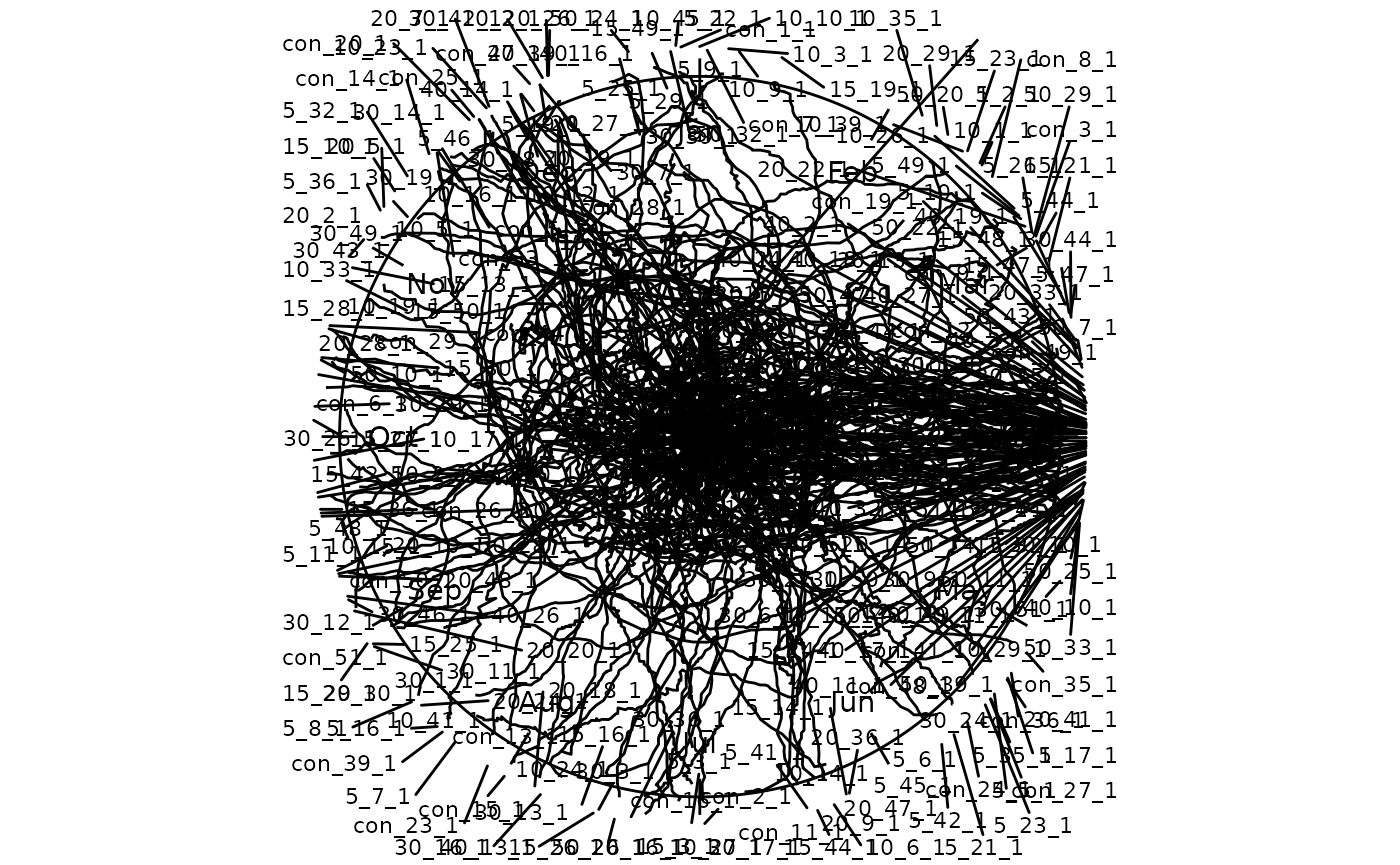
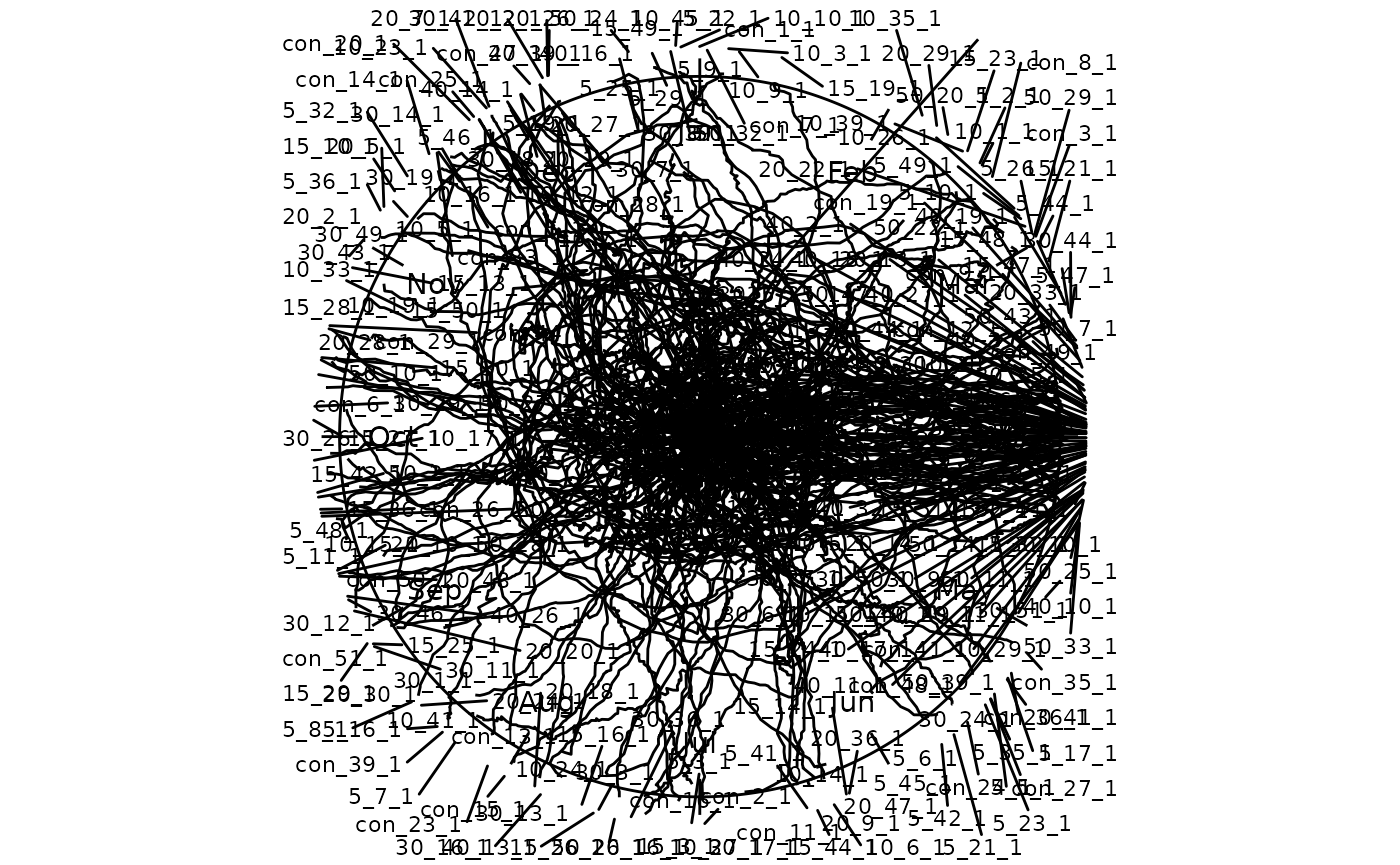
Deploying to gh-pages from @ JohnKirwan/radiatR@d9d15f83c22ddb8d662526b81093b242af88a316 🚀

diff --git a/news/index.html b/news/index.html
@@ -7,7 +7,7 @@
 
     <a class="navbar-brand me-2" href="../index.html">radiatR</a>
 
-    <small class="nav-text text-muted me-auto" data-bs-toggle="tooltip" data-bs-placement="bottom" title="">0.4.0</small>
+    <small class="nav-text text-muted me-auto" data-bs-toggle="tooltip" data-bs-placement="bottom" title="">0.4.1</small>
 
 
     <button class="navbar-toggler" type="button" data-bs-toggle="collapse" data-bs-target="#navbar" aria-controls="navbar" aria-expanded="false" aria-label="Toggle navigation">
@@ -41,24 +41,24 @@
     </div>
 
     <div class="section level2">
-<h2 class="pkg-version" data-toc-text="development version" id="radiatr-development-version">radiatR (development version)<a class="anchor" aria-label="anchor" href="#radiatr-development-version"></a></h2>
+<h2 class="pkg-version" data-toc-text="0.4.1" id="radiatr-041">radiatR 0.4.1<a class="anchor" aria-label="anchor" href="#radiatr-041"></a></h2>
 <div class="section level3">
-<h3 id="breaking-changes-development-version">Breaking changes<a class="anchor" aria-label="anchor" href="#breaking-changes-development-version"></a></h3>
+<h3 id="breaking-changes-0-4-1">Breaking changes<a class="anchor" aria-label="anchor" href="#breaking-changes-0-4-1"></a></h3>
 <ul><li>The central S4 class <code>TrajSet</code> is renamed to <strong><code>Tracks</code></strong>, its constructor to the lowercase <code><a href="../reference/Tracks-class.html">tracks()</a></code>, and the loader functions to snake_case: <code>TrajSet_read()</code> -&gt; <code><a href="../reference/read_tracks.html">read_tracks()</a></code>, <code>TrajSet_read_dir()</code> -&gt; <code><a href="../reference/read_tracks_dir.html">read_tracks_dir()</a></code>, <code>TrajSet_read_format()</code> -&gt; <code><a href="../reference/read_tracks_format.html">read_tracks_format()</a></code>, <code>TrajSet_load_manifest()</code> -&gt; <code><a href="../reference/load_manifest.html">load_manifest()</a></code>. No behaviour, slot, or output changed. Bundled <code>cpunctatus</code> is now a <code>Tracks</code> object.</li>
 </ul></div>
 <div class="section level3">
-<h3 id="infrastructure-development-version">Infrastructure<a class="anchor" aria-label="anchor" href="#infrastructure-development-version"></a></h3>
+<h3 id="infrastructure-0-4-1">Infrastructure<a class="anchor" aria-label="anchor" href="#infrastructure-0-4-1"></a></h3>
 <ul><li>
 <code>headings_frame</code> is now a tibble subclass whose class and display convention survive dplyr verbs (<code>mutate</code>/<code>filter</code>/<code>select</code>/<code>bind_rows</code>) via the <code>dplyr_reconstruct</code> contract, so the orientation no longer leaks. New exported <code><a href="../reference/hf_accessors.html">hf_display()</a></code>/<code><a href="../reference/hf_accessors.html">hf_heading_col()</a></code>/<code><a href="../reference/hf_accessors.html">hf_colour_col()</a></code>/<code><a href="../reference/hf_accessors.html">hf_coords()</a></code> accessors read the metadata (and work on a plain data frame). <code><a href="../reference/derive_headings.html">derive_headings()</a></code> now returns a <code>headings_frame</code>; orientation is consolidated into a single <code>display</code> attribute (the vestigial <code>display_convention</code>/<code>angle_convention</code> strings are removed). See <code><a href="../articles/design.html">vignette("design")</a></code>.</li>
 </ul></div>
 <div class="section level3">
-<h3 id="statistics-development-version">Statistics<a class="anchor" aria-label="anchor" href="#statistics-development-version"></a></h3>
+<h3 id="statistics-0-4-1">Statistics<a class="anchor" aria-label="anchor" href="#statistics-0-4-1"></a></h3>
 <ul><li><p>New <code><a href="../reference/circ_regression.html">circ_regression()</a></code> fits Fisher-Lee circular-linear regression of a heading on linear covariates (formula interface over <code><a href="https://rdrr.io/pkg/circular/man/lm.circular.html" class="external-link">circular::lm.circular</a></code>), with <code><a href="https://rdrr.io/r/base/summary.html" class="external-link">summary()</a></code> (tidy coefficients), <code><a href="https://rdrr.io/r/stats/predict.html" class="external-link">predict()</a></code>/<code><a href="https://rdrr.io/r/stats/fitted.values.html" class="external-link">fitted()</a></code>, and <code><a href="https://rdrr.io/r/base/print.html" class="external-link">print()</a></code> methods. <code><a href="../reference/simulate_tracks.html">simulate_tracks()</a></code> gains a per-condition <code>mean_slope</code> so the predictor shifts the mean heading, enabling end-to-end recovery.</p></li>
 <li><p>New <code><a href="../reference/fitted_directions.html">fitted_directions()</a></code> turns a <code><a href="../reference/circ_regression.html">circ_regression()</a></code> fit into mean-direction arrows for <code><a href="../reference/add_circ_mean.html">add_circ_mean()</a></code>, so the fitted heading-vs-covariate relationship can be drawn on the circular panel, colour-graded by the predictor.</p></li>
 <li><p><code><a href="../reference/simulate_tracks.html">simulate_tracks()</a></code> is now modality- and shape-aware. Per-condition <code>modality</code> (<code>uniform</code> / <code>unimodal</code> / <code>axial</code> / <code>multimodal</code> with <code>n_modes</code>) sets the distribution of per-track headings, and <code>track_shape</code> (<code>directed</code> or <code>oscillatory</code>) sets within-track geometry — <code>oscillatory</code> produces back-and-forth axial tracks whose line-width (<code>line_width</code>) is independent of tortuosity, so the per-track axial methods recover the axis at default settings. The ground truth is recorded in new output columns and in the <code>TrajSet</code> <code>meta$sim_conditions</code>. The default output is unchanged.</p></li>
 </ul></div>
 <div class="section level3">
-<h3 id="track-metrics-development-version">Track metrics<a class="anchor" aria-label="anchor" href="#track-metrics-development-version"></a></h3>
+<h3 id="track-metrics-0-4-1">Track metrics<a class="anchor" aria-label="anchor" href="#track-metrics-0-4-1"></a></h3>
 <ul><li><p><code><a href="../reference/track_speed.html">track_speed()</a></code> and <code><a href="../reference/step_speed.html">step_speed()</a></code> report trajectory speed in real units (distance per second), using the track’s frame rate / timestamps. With the default unit-arena coordinates that is arena-units (radii) per second.</p></li>
 <li><p><code><a href="../reference/instantaneous_speed.html">instantaneous_speed()</a></code> gives per-observation speed (the per-row sibling of <code><a href="../reference/elapsed_seconds.html">elapsed_seconds()</a></code>), and <code>radiate(track_colour = "speed")</code> colours each path by it. Arena-units per second with the default coordinates.</p></li>
 <li><p><code><a href="../reference/velocity_vector.html">velocity_vector()</a></code> gives per-observation velocity components (<code>vx</code>, <code>vy</code>; distance-calibrated when a scale is set), and <code><a href="../reference/angular_velocity.html">angular_velocity()</a></code> the signed turning rate (counter-clockwise positive; radians or degrees per second).</p></li>
@@ -67,7 +67,7 @@
 <li><p>Optional distance calibration: <code><a href="../reference/distance_scale.html">set_distance_scale()</a></code> / <code><a href="../reference/distance_scale.html">calibrate_distance()</a></code> attach a physical scale + unit, so <code><a href="../reference/track_length.html">track_length()</a></code>, <code><a href="../reference/track_speed.html">track_speed()</a></code>, <code><a href="../reference/instantaneous_speed.html">instantaneous_speed()</a></code> and <code>radiate(track_colour = "speed")</code> report real units (e.g. mm, mm/s). Unset, everything stays in arena/coordinate units.</p></li>
 </ul></div>
 <div class="section level3">
-<h3 id="visualisation-development-version">Visualisation<a class="anchor" aria-label="anchor" href="#visualisation-development-version"></a></h3>
+<h3 id="visualisation-0-4-1">Visualisation<a class="anchor" aria-label="anchor" href="#visualisation-0-4-1"></a></h3>
 <ul><li><p>New <code><a href="../reference/perimeter_labs.html">perimeter_labs()</a></code> labels a radial plot’s circumference in domain units, with built-in scales <code><a href="../reference/scale_cardinal.html">scale_cardinal()</a></code> (compass), <code><a href="../reference/scale_clock.html">scale_clock()</a></code> (hours), <code><a href="../reference/scale_months.html">scale_months()</a></code>, and <code><a href="../reference/scale_seconds.html">scale_seconds()</a></code>. <code>radiate(angle_labels = "cardinal" | "hours" | "months" | "seconds")</code> selects them directly and aligns the tick count to the scale.</p></li>
 <li><p><code><a href="../reference/plot_profile.html">plot_profile()</a></code> draws a non-circular kinematics profile – instantaneous speed or turning rate against elapsed time, one line per track (the ggplot sibling of <code><a href="../reference/radiate.html">radiate()</a></code>). Needs a frame rate; distance-calibrated when a scale is set.</p></li>
 <li><p><code><a href="../reference/plot_profile.html">plot_profile()</a></code> gains <code>metric = "direction"</code>, plotting the per-observation movement direction (<code><a href="../reference/velocity_angle.html">velocity_angle()</a></code>) over elapsed time as points (direction is circular, so it is drawn as points rather than a line).</p></li>
@@ -79,7 +79,7 @@
 <li><p>New <code><a href="../reference/circ_boxplot_stats.html">circ_boxplot_stats()</a></code> and <code><a href="../reference/add_circular_boxplot.html">add_circular_boxplot()</a></code> implement the Tukey-like circular boxplot of Buttarazzi, Pandolfo &amp; Porzio (2018) for circular and axial heading data: a depth-ranked box around the circular median, a closed-form von Mises fence multiplier, whiskers, and far-out values. Validated against the bpDir reference implementation.</p></li>
 </ul></div>
 <div class="section level3">
-<h3 id="shiny-app-development-version">Shiny app<a class="anchor" aria-label="anchor" href="#shiny-app-development-version"></a></h3>
+<h3 id="shiny-app-0-4-1">Shiny app<a class="anchor" aria-label="anchor" href="#shiny-app-0-4-1"></a></h3>
 <ul><li><p>The Summary &amp; stats sub-tab now offers reproducible R code for the analysis (<code>circ_summarise</code>, <code>test_uniformity</code>, <code>circ_model_select</code>, <code>straightness_index</code>) to copy or download, alongside the figure code on the Circular plots tab.</p></li>
 <li><p>The Results step is reorganised into <strong>Circular plots</strong> and <strong>Summary &amp; stats</strong> sub-tabs, each with its own options sidebar (the circular figure + its reproduce/export controls on one, the summary and model-selection tables on the other).</p></li>
 <li><p>The Results figure’s <strong>Track colour</strong> selector gains “By elapsed time”, with a frame-rate (fps) input; an unset/invalid frame rate falls back to sequence colouring with a note.</p></li>

diff --git a/authors.html b/authors.html
@@ -7,7 +7,7 @@
 
     <a class="navbar-brand me-2" href="index.html">radiatR</a>
 
-    <small class="nav-text text-muted me-auto" data-bs-toggle="tooltip" data-bs-placement="bottom" title="">0.4.0</small>
+    <small class="nav-text text-muted me-auto" data-bs-toggle="tooltip" data-bs-placement="bottom" title="">0.4.1</small>
 
 
     <button class="navbar-toggler" type="button" data-bs-toggle="collapse" data-bs-target="#navbar" aria-controls="navbar" aria-expanded="false" aria-label="Toggle navigation">
@@ -54,13 +54,13 @@
 
       <p>Kirwan J (2026).
 <em>radiatR: Analysis and Visualisation of Headings and Trajectories in Circular Space</em>.
-R package version 0.4.0, <a href="https://johnkirwan.github.io/radiatR/">https://johnkirwan.github.io/radiatR/</a>.
+R package version 0.4.1, <a href="https://johnkirwan.github.io/radiatR/">https://johnkirwan.github.io/radiatR/</a>.
 </p>
       <pre>@Manual{,
   title = {radiatR: Analysis and Visualisation of Headings and Trajectories in Circular Space},
   author = {John D. Kirwan},
   year = {2026},
-  note = {R package version 0.4.0},
+  note = {R package version 0.4.1},
   url = {https://johnkirwan.github.io/radiatR/},
 }</pre>
     </div>

diff --git a/404.html b/404.html
@@ -22,7 +22,7 @@
 
     <a class="navbar-brand me-2" href="https://johnkirwan.github.io/radiatR/index.html">radiatR</a>
 
-    <small class="nav-text text-muted me-auto" data-bs-toggle="tooltip" data-bs-placement="bottom" title="">0.4.0</small>
+    <small class="nav-text text-muted me-auto" data-bs-toggle="tooltip" data-bs-placement="bottom" title="">0.4.1</small>
 
 
     <button class="navbar-toggler" type="button" data-bs-toggle="collapse" data-bs-target="#navbar" aria-controls="navbar" aria-expanded="false" aria-label="Toggle navigation">

diff --git a/CLAUDE.html b/CLAUDE.html
@@ -7,7 +7,7 @@
 
     <a class="navbar-brand me-2" href="index.html">radiatR</a>
 
-    <small class="nav-text text-muted me-auto" data-bs-toggle="tooltip" data-bs-placement="bottom" title="">0.4.0</small>
+    <small class="nav-text text-muted me-auto" data-bs-toggle="tooltip" data-bs-placement="bottom" title="">0.4.1</small>
 
 
     <button class="navbar-toggler" type="button" data-bs-toggle="collapse" data-bs-target="#navbar" aria-controls="navbar" aria-expanded="false" aria-label="Toggle navigation">

diff --git a/LICENSE.html b/LICENSE.html
@@ -7,7 +7,7 @@
 
     <a class="navbar-brand me-2" href="index.html">radiatR</a>
 
-    <small class="nav-text text-muted me-auto" data-bs-toggle="tooltip" data-bs-placement="bottom" title="">0.4.0</small>
+    <small class="nav-text text-muted me-auto" data-bs-toggle="tooltip" data-bs-placement="bottom" title="">0.4.1</small>
 
 
     <button class="navbar-toggler" type="button" data-bs-toggle="collapse" data-bs-target="#navbar" aria-controls="navbar" aria-expanded="false" aria-label="Toggle navigation">

diff --git a/articles/circular-statistics.html b/articles/circular-statistics.html
@@ -21,7 +21,7 @@
 
     <a class="navbar-brand me-2" href="../index.html">radiatR</a>
 
-    <small class="nav-text text-muted me-auto" data-bs-toggle="tooltip" data-bs-placement="bottom" title="">0.4.0</small>
+    <small class="nav-text text-muted me-auto" data-bs-toggle="tooltip" data-bs-placement="bottom" title="">0.4.1</small>
 
 
     <button class="navbar-toggler" type="button" data-bs-toggle="collapse" data-bs-target="#navbar" aria-controls="navbar" aria-expanded="false" aria-label="Toggle navigation">

diff --git a/articles/design.html b/articles/design.html
@@ -21,7 +21,7 @@
 
     <a class="navbar-brand me-2" href="../index.html">radiatR</a>
 
-    <small class="nav-text text-muted me-auto" data-bs-toggle="tooltip" data-bs-placement="bottom" title="">0.4.0</small>
+    <small class="nav-text text-muted me-auto" data-bs-toggle="tooltip" data-bs-placement="bottom" title="">0.4.1</small>
 
 
     <button class="navbar-toggler" type="button" data-bs-toggle="collapse" data-bs-target="#navbar" aria-controls="navbar" aria-expanded="false" aria-label="Toggle navigation">

diff --git a/articles/index.html b/articles/index.html
@@ -7,7 +7,7 @@
 
     <a class="navbar-brand me-2" href="../index.html">radiatR</a>
 
-    <small class="nav-text text-muted me-auto" data-bs-toggle="tooltip" data-bs-placement="bottom" title="">0.4.0</small>
+    <small class="nav-text text-muted me-auto" data-bs-toggle="tooltip" data-bs-placement="bottom" title="">0.4.1</small>
 
 
     <button class="navbar-toggler" type="button" data-bs-toggle="collapse" data-bs-target="#navbar" aria-controls="navbar" aria-expanded="false" aria-label="Toggle navigation">

diff --git a/articles/loaders.html b/articles/loaders.html
@@ -21,7 +21,7 @@
 
     <a class="navbar-brand me-2" href="../index.html">radiatR</a>
 
-    <small class="nav-text text-muted me-auto" data-bs-toggle="tooltip" data-bs-placement="bottom" title="">0.4.0</small>
+    <small class="nav-text text-muted me-auto" data-bs-toggle="tooltip" data-bs-placement="bottom" title="">0.4.1</small>
 
 
     <button class="navbar-toggler" type="button" data-bs-toggle="collapse" data-bs-target="#navbar" aria-controls="navbar" aria-expanded="false" aria-label="Toggle navigation">

diff --git a/articles/radiatR.html b/articles/radiatR.html
@@ -21,7 +21,7 @@
 
     <a class="navbar-brand me-2" href="../index.html">radiatR</a>
 
-    <small class="nav-text text-muted me-auto" data-bs-toggle="tooltip" data-bs-placement="bottom" title="">0.4.0</small>
+    <small class="nav-text text-muted me-auto" data-bs-toggle="tooltip" data-bs-placement="bottom" title="">0.4.1</small>
 
 
     <button class="navbar-toggler" type="button" data-bs-toggle="collapse" data-bs-target="#navbar" aria-controls="navbar" aria-expanded="false" aria-label="Toggle navigation">

diff --git a/articles/simulate.html b/articles/simulate.html
@@ -21,7 +21,7 @@
 
     <a class="navbar-brand me-2" href="../index.html">radiatR</a>
 
-    <small class="nav-text text-muted me-auto" data-bs-toggle="tooltip" data-bs-placement="bottom" title="">0.4.0</small>
+    <small class="nav-text text-muted me-auto" data-bs-toggle="tooltip" data-bs-placement="bottom" title="">0.4.1</small>
 
 
     <button class="navbar-toggler" type="button" data-bs-toggle="collapse" data-bs-target="#navbar" aria-controls="navbar" aria-expanded="false" aria-label="Toggle navigation">

diff --git a/index.html b/index.html
@@ -26,7 +26,7 @@
 
     <a class="navbar-brand me-2" href="index.html">radiatR</a>
 
-    <small class="nav-text text-muted me-auto" data-bs-toggle="tooltip" data-bs-placement="bottom" title="">0.4.0</small>
+    <small class="nav-text text-muted me-auto" data-bs-toggle="tooltip" data-bs-placement="bottom" title="">0.4.1</small>
 
 
     <button class="navbar-toggler" type="button" data-bs-toggle="collapse" data-bs-target="#navbar" aria-controls="navbar" aria-expanded="false" aria-label="Toggle navigation">